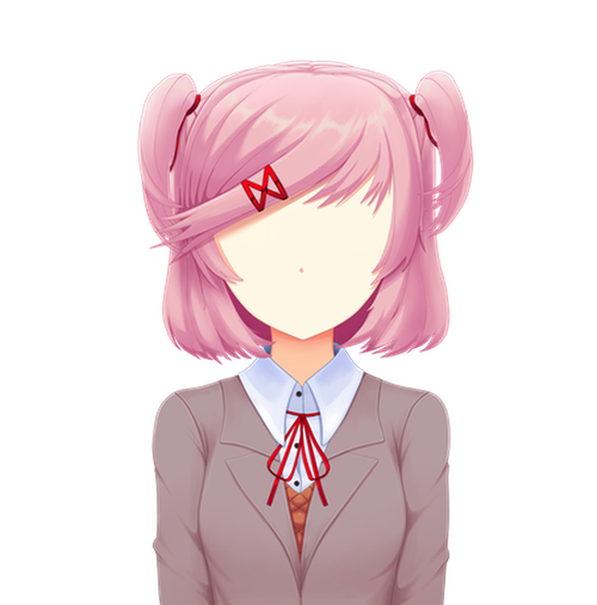
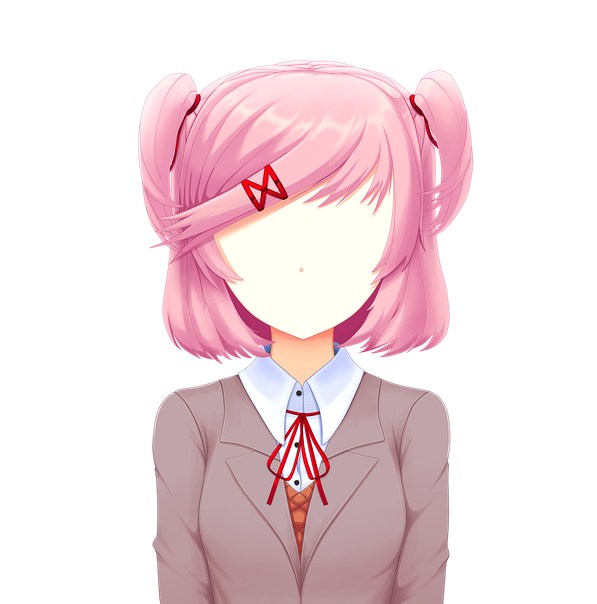
sprite update 2

diff --git a/Python Stuff/sprite resizer.py b/Python Stuff/sprite resizer.py
@@ -1,4 +1,4 @@
-from PIL import Image
+from PIL import Image, ImageEnhance
 import os
 i = 0
 
@@ -9,7 +9,15 @@ for dr in os.listdir("C://Users//User//Desktop//Natsulogue//game//mod_assets//na
         
         img = Image.open("C://Users//User//Desktop//Natsulogue//game//mod_assets//natsuki//sitting//"+dr+"//"+k[i])
         width = 597
-        height = 605
+        rate = (width / float(img.size[0]))
+        height = int((float(img.size[1])*float(rate)))
+        #height = 605
         resized_img = img.resize((width, height), Image.ANTIALIAS)
-        resized_img.save("C://Users//User//Desktop//Natsulogue//game//mod_assets//natsuki//sitting//"+dr+"//"+k[i])
+        enhancer = ImageEnhance.Contrast(resized_img)
+        
+        level = 1.1
+        s_image = enhancer.enhance(level)
+        sharpness = ImageEnhance.Sharpness(s_image)
+        n_image = sharpness.enhance(level+0.1)
+        n_image.save("C://Users//User//Desktop//Natsulogue//game//mod_assets//natsuki//sitting//"+dr+"//"+k[i])
         i += 1
